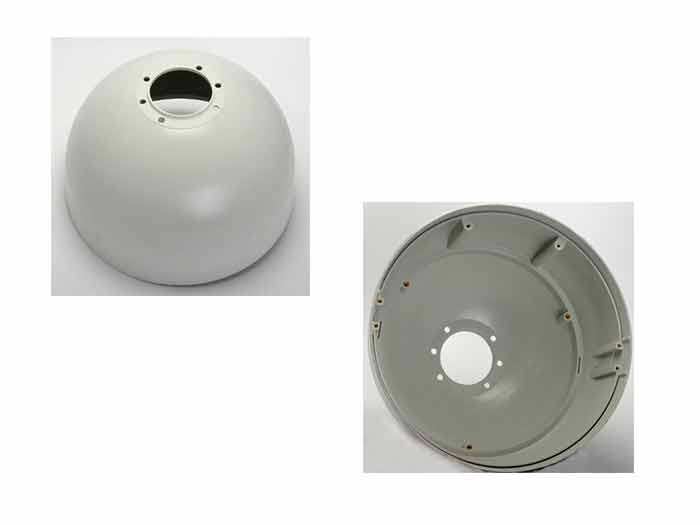
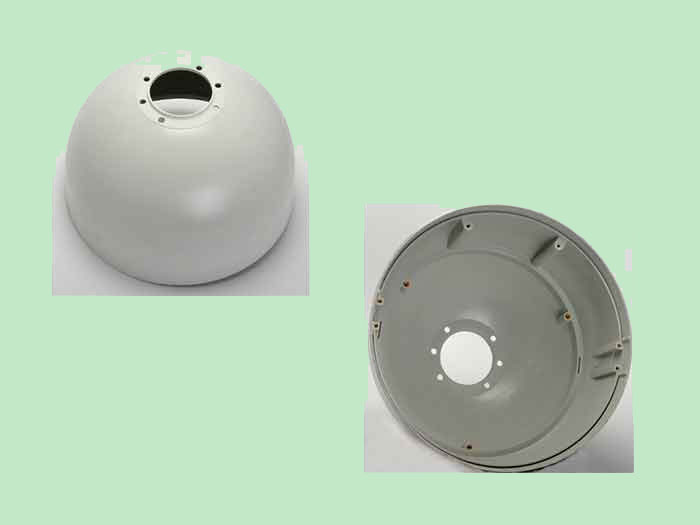
scan næsten færdig

diff --git a/assets/css/graven-style.css b/assets/css/graven-style.css
@@ -142,7 +142,7 @@ body {
   width: 100%;
   margin: 0;
   background-color: #e5e5ff;
-  font-family: Helvetica, Arial, sans-serif;
+  font-family: 'Open Sans', sans-serif;
   font-size: 100%;
   color: #1b1b1b;
 }

diff --git a/assets/css/scan-style.css b/assets/css/scan-style.css
@@ -143,7 +143,7 @@ body {
   width: 100%;
   margin: 0;
   background-color: #ebf7ec;
-  font-family: Helvetica, Arial, sans-serif;
+  font-family: 'Open Sans', sans-serif;
   font-size: 100%;
   color: #1b1b1b;
 }

diff --git a/assets/css/faelles_style.css b/assets/css/faelles_style.css
@@ -57,7 +57,7 @@ body {
   width: 100%;
   margin: 0;
   background-color: #f7f7f7;
-  font-family: Helvetica, Arial, sans-serif;
+  font-family: 'Open Sans', sans-serif;
   font-size: 100%;
   color: #1b1b1b;
 }

diff --git a/scankomposit-as.php b/scankomposit-as.php
@@ -26,7 +26,11 @@ include ('./includes/public-header.php');
 		<div class="produkt-text">
 			<h4>Lampeskærm</h4>
 			<br>	
-			<p>Lorem ipsum dolor sit amet, consectetur adipisicing elit. Delectus exercitationem sunt dolor quibusdam, ab magnam voluptatibus quas officia laudantium nisi, laborum quae cumque aut perferendis labore soluta doloremque unde, quos.</p>
+			<p>Københavner Potten, skærm til lamper i gaderne, lavet i vejrbestandig SMC 
+			glasfiber, holdbart op til 30 år i alt slags vejr fra ekstrem varme til ekstrem 
+			kulde. Et fantastisk kvalitetsprodukt der bla. har hængt i København som 
+			gadebelysning i mere end 30 år. Københavner Potten laves i flere farver men 
+			samme gode kvalitet – danskproduceret.</p>
 		</div>
 	</div>
 
@@ -38,102 +42,96 @@ include ('./includes/public-header.php');
 		<div class="produkt-text">
 			<h4>KK1 Stol</h4>
 			<br>	
-			<p>Lorem ipsum dolor sit amet, consectetur adipisicing elit. Delectus exercitationem sunt dolor quibusdam, ab magnam voluptatibus quas officia laudantium nisi, laborum quae cumque aut perferendis labore soluta doloremque unde, quos.</p>
+			<p>Stolen er fremstillet i fiberforstærket SMC en komposit med 32 % glasindhold 
+			som giver stabilitet og styrke. Understel er i krom og med stolen følger en 
+			polstret hynde i god dansk kvalitet. Alt fremstillet og produceret i Danmark.</p>
+			<p>KK1 Stolen er oprindeligt designet i 1955 af arkitekt Kay Kørbin</p>
 		</div>
 	</div>
 
 	<div id="ventil-gas-skabe" class="produkt">
 		<div class="produkt-foto-box">
-			<img src="./assets/img/tekniske.jpg" class="produkt-foto" alt="">
+			<img src="./assets/img/gas.jpg" class="produkt-foto" alt="">
 		</div>
 	
 		<div class="produkt-text">
 			<h4>Ventil- og gasskabe</h4>
 			<br>	
-			<p>Vi laver alt indenfor blæsestøbte emner.</p><br>  
-				<ul>
-					<li>Køleelement</li>
-					<li>Kompost</li>
-					<li>Bælg</li>
-					<li>Benzin Tank</li>
-					<li>Sæde</li>
-					<li>Genoplivningsdukke</li>
-					<li>Vandlås</li>
-					<li>Legetøj</li>
-					<li>Møntbøsse</li>
-				</ul><br>
-				<p>Vi hjælpe gerne til med kunde præet emner efter tegning som tilpasset til blæsestøbning.</p>
+			<p>Fremstillet i SMC kompositmateriale som er særdeles vejrbestandigt.</p>
+			<p>Slagfast og særdeles holdbart.</p>
+			<p>Alle dele incl. de galvaniserede aluminium bøjler der medfølger er fremstillet i Danmark</p>
+
 		</div>
 	</div>
 
 	<div id="postkasse" class="produkt">
 		<div class="produkt-foto-box">
-			<img src="./assets/img/vejpael.jpg" class="produkt-foto" alt="">
+			<img src="./assets/img/postkasse.jpg" class="produkt-foto" alt="">
 		</div>
 	
 		<div class="produkt-text">
 			<h4>Postkasse</h4>
 			<br>	
-			<p>Lorem ipsum dolor sit amet, consectetur adipisicing elit. Delectus exercitationem sunt dolor quibusdam, ab magnam voluptatibus quas officia laudantium nisi, laborum quae cumque aut perferendis labore soluta doloremque unde, quos.</p>
+			<p>Fremstillet i glasfiber SMC fiberkomposit med 23 % glasindhold. Farven er lys grå 
+			RAL 7035 og tåler sol, frost og saltvand. Særdeles holdbar og vi har postkasser som 
+			disse siddende rundt omkring i Danmark i mere en 30 år. Medfølger 1 stk. Ruko lås med 
+			2 nøgler</p>
 		</div>
 	</div>
 
 	<div id="vejbelysning" class="produkt">
 		<div class="produkt-foto-box">
-			<img src="./assets/img/emballage.jpg" class="produkt-foto" alt="">
+			<img src="./assets/img/udelampe.jpg" class="produkt-foto" alt="">
 		</div>
 	
 		<div class="produkt-text">
 			<h4>Vejbelysning</h4>
 			<br>	
-			<p>Gravenhorst Plast A/S producerer, og lagerfører en lang række emballageprodukter fra 125ml flasker til 27,5l dunke.</p><br> 
-			<p>Emballageprodukterne er primært fremstillet til industri- og laboratoriebrug, men kan også anvendes i andre områder.</p><br> 
-			<p>Materialerne, som bliver benyttet til emballage er alle fødevaregodkendte og flere af produkterne er U/N-godkendte til kemikalier.</p><br>
+
 
 		</div>
 	</div>
 
 	<div id="lysamatur" class="produkt">
 		<div class="produkt-foto-box">
-			<img src="./assets/img/emballage.jpg" class="produkt-foto" alt="">
+			<img src="./assets/img/lysamatur.jpg" class="produkt-foto" alt="">
 		</div>
 	
 		<div class="produkt-text">
 			<h4>Lysamatur</h4>
 			<br>	
-			<p>Gravenhorst Plast A/S producerer, og lagerfører en lang række emballageprodukter fra 125ml flasker til 27,5l dunke.</p><br> 
-			<p>Emballageprodukterne er primært fremstillet til industri- og laboratoriebrug, men kan også anvendes i andre områder.</p><br> 
-			<p>Materialerne, som bliver benyttet til emballage er alle fødevaregodkendte og flere af produkterne er U/N-godkendte til kemikalier.</p><br>
+			<p>Fremstillet i fiberforstærket SMC komposit i flere forskellige størrelser med 
+			diverse længder. Amaturerne kan også presses i en brandhæmmende komposit som 
+			benyttes på skibe mv.</p>
 
 		</div>
 	</div>
 
 	<div id="scankomposit-tekniske-emner" class="produkt">
 		<div class="produkt-foto-box">
-			<img src="./assets/img/emballage.jpg" class="produkt-foto" alt="">
+			<img src="./assets/img/scantek.jpg" class="produkt-foto" alt="">
 		</div>
 	
 		<div class="produkt-text">
 			<h4>Tekniske emner</h4>
 			<br>	
-			<p>Gravenhorst Plast A/S producerer, og lagerfører en lang række emballageprodukter fra 125ml flasker til 27,5l dunke.</p><br> 
-			<p>Emballageprodukterne er primært fremstillet til industri- og laboratoriebrug, men kan også anvendes i andre områder.</p><br> 
-			<p>Materialerne, som bliver benyttet til emballage er alle fødevaregodkendte og flere af produkterne er U/N-godkendte til kemikalier.</p><br>
+			
 
 		</div>
 	</div>
 
 	<div id="bakelit-phenol" class="produkt">
 		<div class="produkt-foto-box">
-			<img src="./assets/img/emballage.jpg" class="produkt-foto" alt="">
+			<img src="./assets/img/bakelit.jpg" class="produkt-foto" alt="">
 		</div>
 	
 		<div class="produkt-text">
 			<h4>Bakelit og Phenol</h4>
 			<br>	
-			<p>Gravenhorst Plast A/S producerer, og lagerfører en lang række emballageprodukter fra 125ml flasker til 27,5l dunke.</p><br> 
-			<p>Emballageprodukterne er primært fremstillet til industri- og laboratoriebrug, men kan også anvendes i andre områder.</p><br> 
-			<p>Materialerne, som bliver benyttet til emballage er alle fødevaregodkendte og flere af produkterne er U/N-godkendte til kemikalier.</p><br>
+			<p>Kontaktorer til styresystemer.</p>
+			<p>Ventildele til vandbehandlingsanlæg</p>
+			<p>Store og små serie produceres<p>
+
 
 		</div>
 	</div>

diff --git a/includes/public-header.php b/includes/public-header.php
@@ -11,6 +11,7 @@
 <meta name="robots" content="noindex, nofollow">
 <meta name="keywords" content="<?php echo $keywords; ?>">
 <meta name="description" content="<?php echo $description; ?>">
+<link href="https://fonts.googleapis.com/css?family=Open+Sans" rel="stylesheet">
 <link rel="stylesheet" type="text/css" href="<?php echo $stylesheet; ?>">
 <link rel="stylesheet" type="text/css" href="./assets/font-awesome-4.5.0/css/font-awesome.min.css">
 <script src="https://ajax.googleapis.com/ajax/libs/jquery/2.2.0/jquery.min.js" type="text/javascript"></script>
